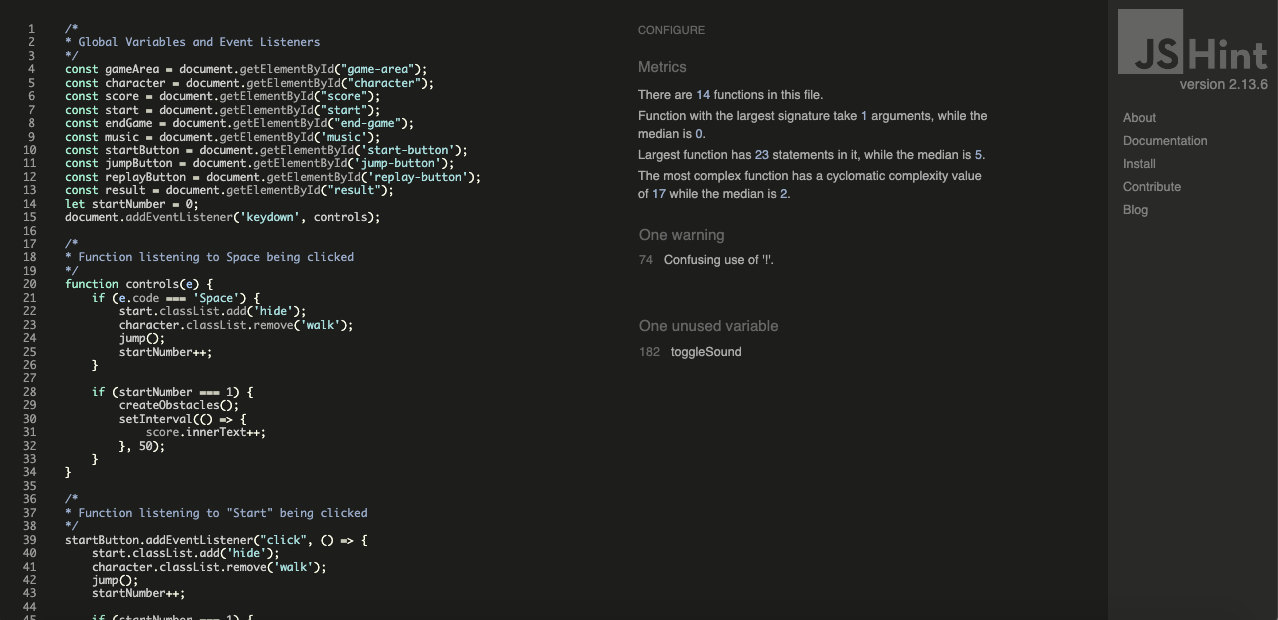
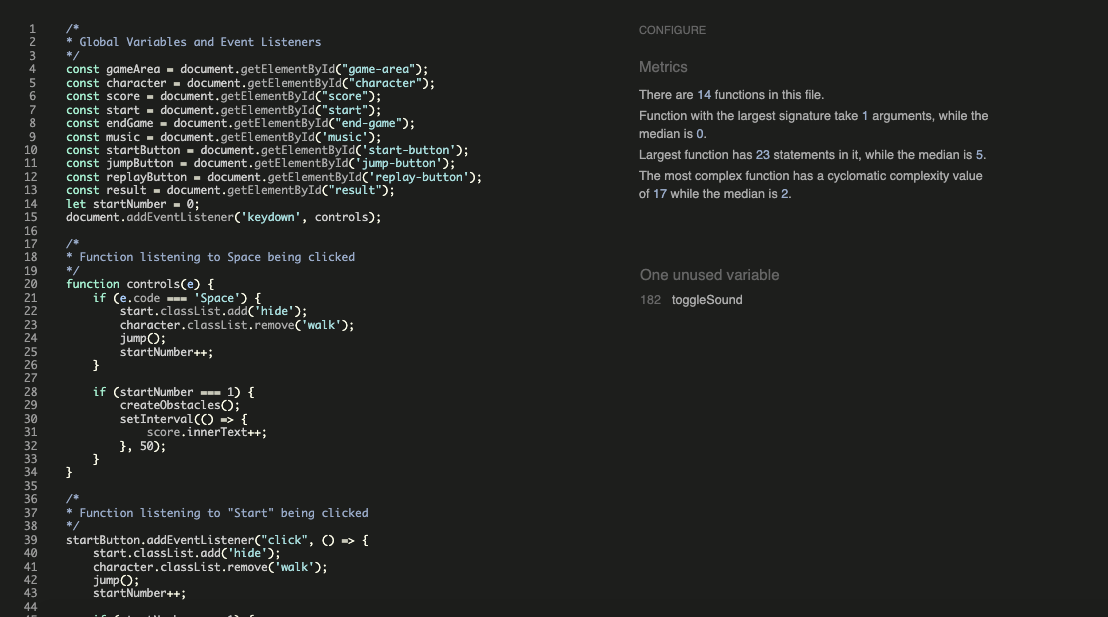
Add to README, including some testing, styling, and layout

diff --git a/README.md b/README.md
@@ -1,4 +1,4 @@
-# Rooftop Jumper 2D 8-Bit Resolution Game 
+# Rooftop Jumper 2D 8-Bit Style Game 
 
 Welcome to Rooftop Jumper! A 2D 8-Bit style free online videogame using HTML, CSS, and Javascript for an interactive and responsive user experience. I was born in 1995 and had a bigger sister who was very into videogames, this was my inspiration for the game and the motivation to attempt something more complicated and complex than a simple rock, paper, scissors game or something similar. I grew up playing so many different kinds of 2D games, where all you could typically do was move in 4 directions, jump, duck, and maybe even fire off something or use items. Although I would have loved to incorporate all elements and made a fully completed game with an end goal, and even a background story, with my current knowledge I would have not managed that in the alloted time, so I stuck with the most (not-so-simple) simple functions. 
 
@@ -126,31 +126,25 @@ This section will include the features of this videogame project and how they ef
 
 ## Lighthouse Layout
 
+This section is a simulated display of how the game appeared on Google Devs on different screen sizes, proving its reponsiveness and stylistic consistency. Upon reviewing my grade for the last project I came across a problem that became apparent to me while doing this project as well which is that the website is cut off on one end, which was a criticism in the previous review. Now that I am aware that this issue exists, and persists, it will be something that I will be tackling with my mentor as to why that happens when I code and the mistakes I am making to cause that, that I am currently not aware of. 
+
 ### IPhone SE
 
-###
+### IPhone 12 Pro
 
-###
+### IPhone 14 Pro Max
 
-###
+### Samsung Galaxy S20 Ultra
 
-###
+### iPad Mini
 
-###
+### iPad Pro
 
-###
+### Surface Duo
 
-###
+### Asus Zenbook Fold
 
-###
-
-###
-
-###
-
-###
-
-###
+### Nest Hub Max
 
 ## Styles
 
@@ -160,19 +154,37 @@ Below you will find a breakdown of the primary font.
 
 #### Primary Font
 
-Add picture and description  
+![Font](assets/images/font.png)
+
+I chose "Pixelify Sans" because the font is heavily reminiscent of the theme of the game and the vibe I curated around it. It is pure nostalgia, whether you were born in the 80's and 90's and attended arcades, are aware of the culture around old 8bit style games, or can just tell the consistent styling choices by the atmosphere this font creates, artistic throwbacks in any shape or form when carefully put together make people feel nostalgic regardless of whether they have experienced the time or not. 
 
 ### Color Schemes
 
-Below you will find a breakdown of each color and its purpose, as well as their contrast score. 
+Below you will find a breakdown of each color and its purpose, as well as their contrast score. The color scheme is a lot simpler than my last project, but the colors were still carefully chose to create a comforting experience with warm tones while still retaining a sort of visual lightness and lightheartedness.  
 
 #### Colors Chosen & Purpose
 
-Add pictures and description
+![Beige](assets/images/beige.png)
+
+The beige color helps support the overall comforting, cozy, laidback, and non-serious feeling this game conveys while being warm but simultaneously light and not too heavy to due the fact that it literally is a lighter shade.
+
+![Gold](assets/images/gold.png)
+
+The gold is there to reinforce the beige but give the entire game a royal touch to emphasize the medieval world the game is set in. It is used as accents to not overwhelm other colors or aspects of the game but still adding some luxuriousness. 
+
+![Orange](assets/images/orange.png)
+
+The orange color is there as a highlight color that lives within a similar family to the beige or gold but adds a little different extra. Used as highlights it helps give the color scheme I have created more depth and a little more variety without being too overwhelming or visually inconsistent. 
+
+![Black](assets/images/black.png)
+
+The black is a classic color for these 8bit games and reinforces the idea of this being a throwback to the Arcades. Most of those games have either white or black colored font writing. It creates a strong contrast to the main colors chosen, making everything legible and accessible while simultaneously retaining the stylistic originality of these old school games. 
 
 #### Contrast Score
 
-Add pictures and description 
+![Contrast Score](assets/images/actual-contrast.png)
+
+This is the actual contrast score. The reason I say actual, is because in the testing phase, when I used WebAim Wave an error occured that was illogical. For a more detailed breakdown see the testing section.
 
 ### Wireframes Layout 
 
@@ -288,7 +300,14 @@ Add credits
 
 ![JSHint](assets/images/jshint.png)
 
+As you can see there are no issues present in my Javascript code. There is a mention of an unused variable, but that was used as an on-click function in the HTML. I know that these are discouraged, but the reason I chose to use and include this is because I wanted to display as well as test and experiment different possible approaches. Instead of being told what is right and what is wrong, even if I agree or disagree, I think every element should be tested and tried in order to understand why, or why not. 
+
 ### WebAim - WAVE
+
+![WebAim Wave](assets/images/webaim-wave.png)
+![WebAim Wave](assets/images/webaim-wave-contrast.png)
+
+As you can see above we have the WebAim Wave results. The aforementioned contrast issue is clearly visible here as when you click on the contrast section of the three errors that occured, the program is comparing a black font to a black background creating a contrast of 1:1, which very obvsiously is impossible to read for anyone. Luckily as shown above in the actual contrast results, the contrast is closer to 17:1 making it perfectly legible and rendering these errors invalid. 
 
 ### General Testing 
 
